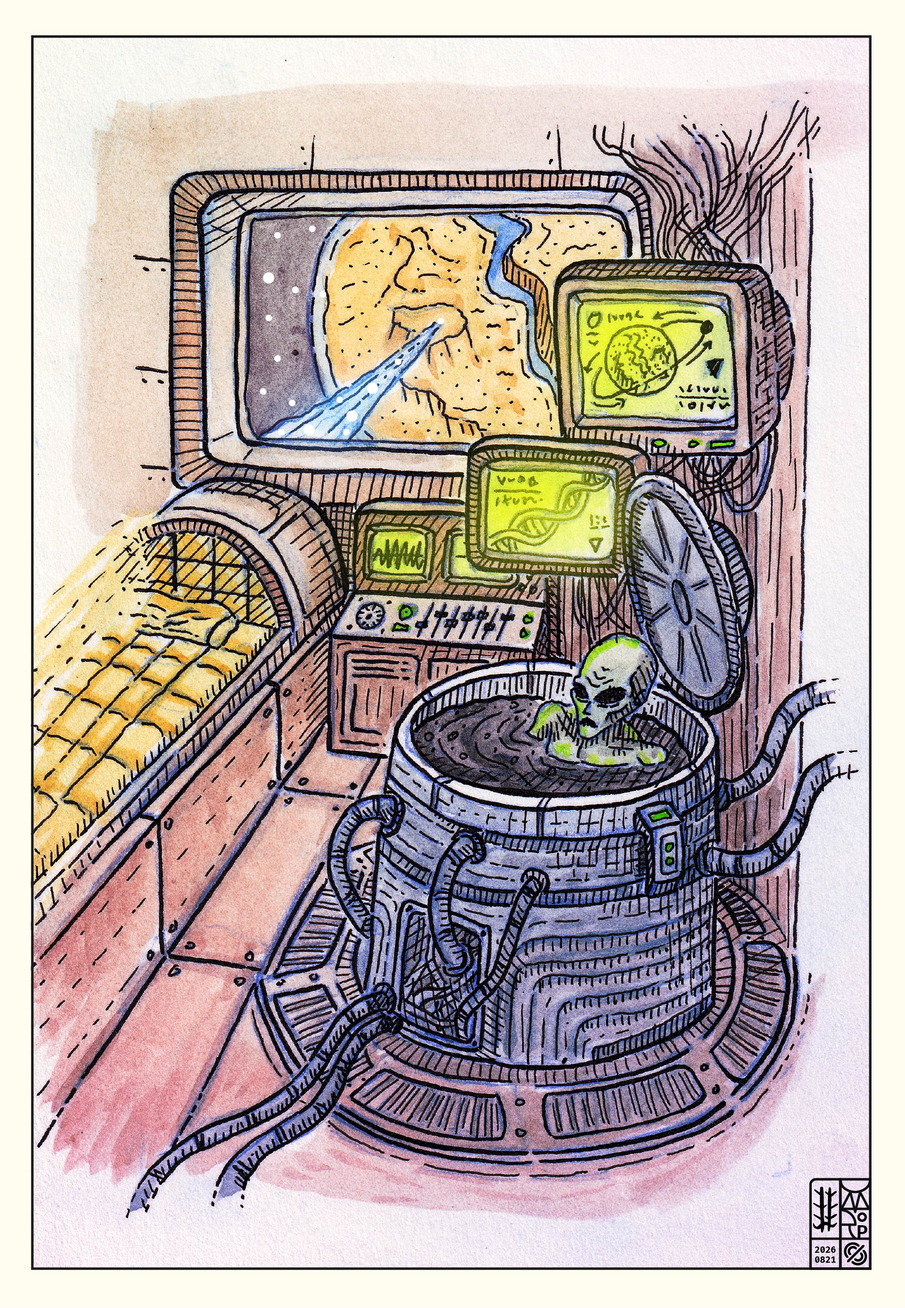
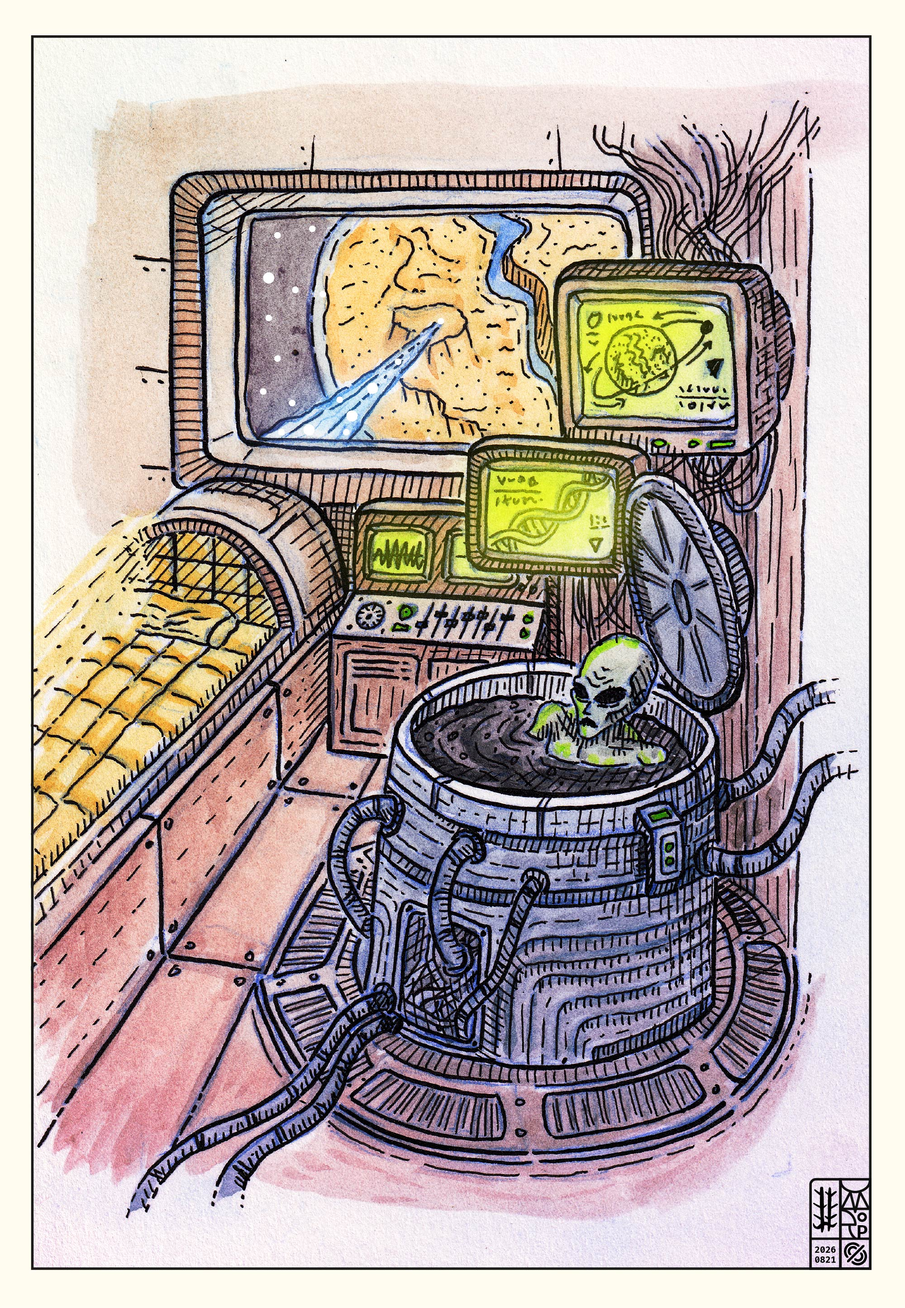
20260822 - I was too close to myself.

diff --git a/src/content/field-notes/20260822.md b/src/content/field-notes/20260822.md
@@ -1,0 +1,47 @@
+---
+title: '20260822'
+pubDate: 08/22/2026
+updatedDate: 08/22/2026
+description: Descent and arrival is always so unnecessarily dramatic. This afternoon I laid down for an hour long sessions to Tom Campbell's binaural beats, 64-64 carrier. The session itself was quiet and restoring, the same kind of lazy focus state floating and declaration to openness as the meditation from yesterday. No displays of phenomenon or message with this one but what followed after hasn't happened in about a month.
+author: Anton Simanov
+background: /Media/art/sketches/20260822-P1.jpg
+asset: /Media/art/sketches/20260822-P1.jpg
+thumb: /Media/art/sketches/20260822-P1.jpg
+exportToSubstack: true
+---
+
+### I was too close to myself.
+
+##### Field Notes of Rahgah - 20260822-P1
+
+<br>
+
+***Descent and arrival is always so unnecessarily dramatic.***
+
+<br>
+
+---
+
+<br>
+
+This afternoon I lay down for an hour-long session to Tom Campbell's binaural beats, 64-64 carrier. The session itself was quiet and restoring, the same kind of lazy focus state floating and declaration to openness as the meditation from yesterday. No displays of phenomenon or message with this one, but what followed hasn't happened in about a month.
+
+After winding down from the trance, I made my statement of intent without much fanfare, which I believe is actually the right posture to take. In the past I wrote about setting a strong intention, and I had a lot of success with that. What I've noticed over the years is that when a fallow period occurs, no matter how strongly you set your intent, nothing will materialize out of it.
+
+My next step in this whole consciousness exploration was to see if consciously applying pressure to it matters at all, fallow period or not. It doesn't. The key is to know what you want and have absolutely no hesitation in the process. Shouting it into the ether doesn't matter, and whispering it into your pillow doesn't make it any less likely to occur.
+
+Think about it: whether you "yell" in your mind or "speak" calmly changes nothing. Emotions arise out of the earlier example, and that might appear as strong intent setting initially, but in other situations, for example already experiencing an altered state, it is far more likely to collapse the entire experience.
+
+So, I don't drive emotion behind my intent anymore. It'll happen or not. Ultimately it's not up to me; it never is. At least that's where I'm at right now with all of this.
+
+I hit the pillow hard after this session; I was tired and ready to let it all go for an hour. I ended up in a loose-ish lucid dream, nothing to write home about. After I made my exit out of it, I was greeted with a Liminal display. This has been dodging me lately too, so it was a welcome occurrence.
+
+The Liminal encounter was in the same position as always, bottom-right of my field of view. I can now magnify and "move in" on these to see them better. Two flowing and changing forms were playing together. They appeared like hooved, plant-eating mammals: think of deer, gazelle, or antelope. One would roll or duck while the other jumped over. It was playful, and they seemed to have zero notion that I, as the observer, was watching.
+
+After that I turned over and went for the second altered state attempt, sort of. I was really okay with just sleeping. Initially I thought I couldn't fall asleep. I kept turning and tossing. Then I realized I was basically rocking in place, back and forth from left to right and on my back (I fell asleep on my stomach and facing to the right).
+
+"Just turn over," I thought to myself. So I did. At this point I didn't really care if I fell off the bed because that's kind of the point when projecting. Sure enough, I went right over the edge of the daybed and onto the floor. My eyes were open now, and the office looked incredibly dim, much more so than it actually was in the physical state. I looked around, and as soon as I started to pick myself up, I caught the view of my physical body still in bed.
+
+I was too close to myself (odd thing to write, I know) and got yanked back in. I was lucid nearly instantly and spent the rest of my time lazily waiting for Kim to come in for afternoon cuddles.
+
+We'll see how this all progresses. I have a working theory regarding this week's gradual uptick in engagement with the non-physical activity.
